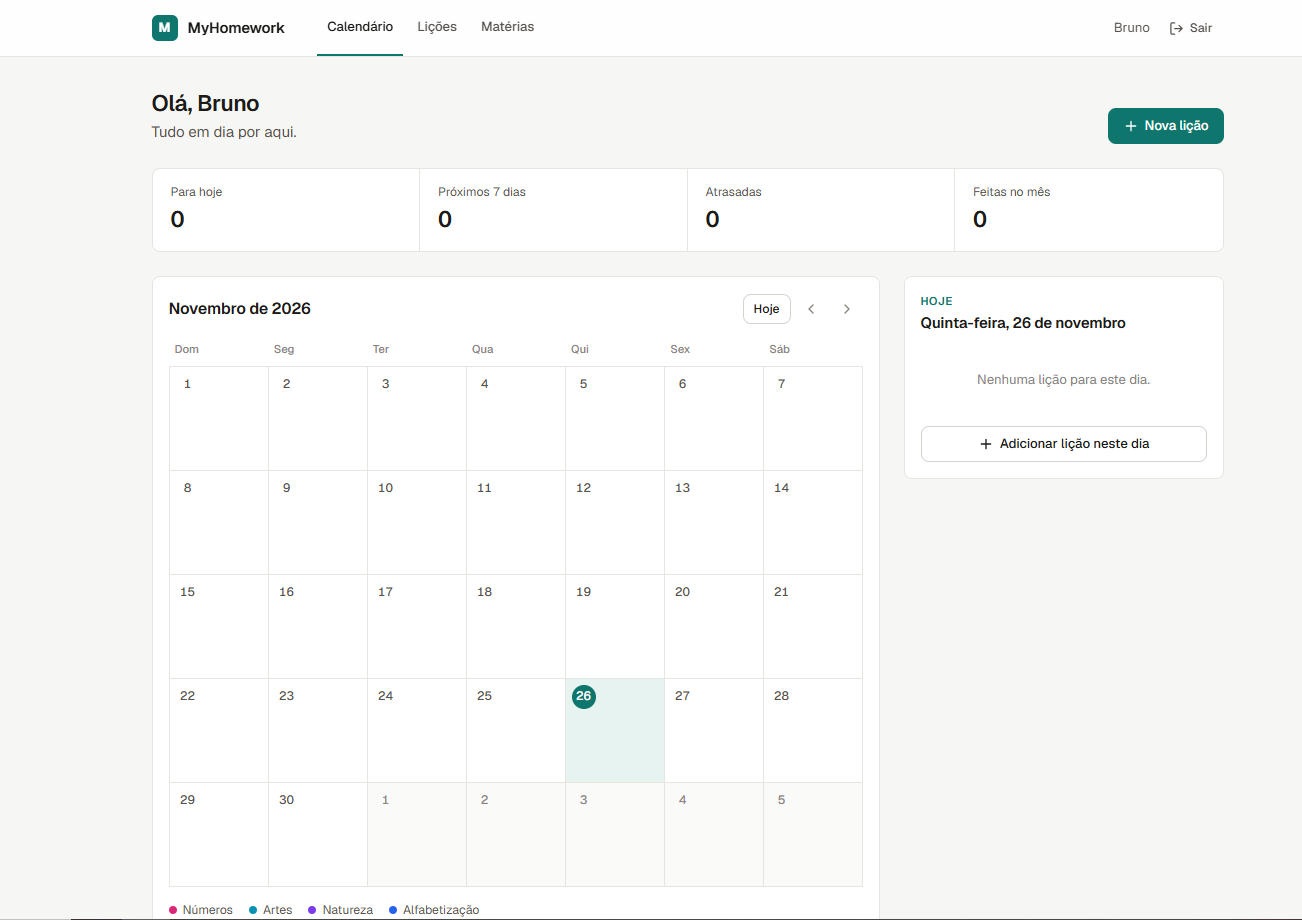
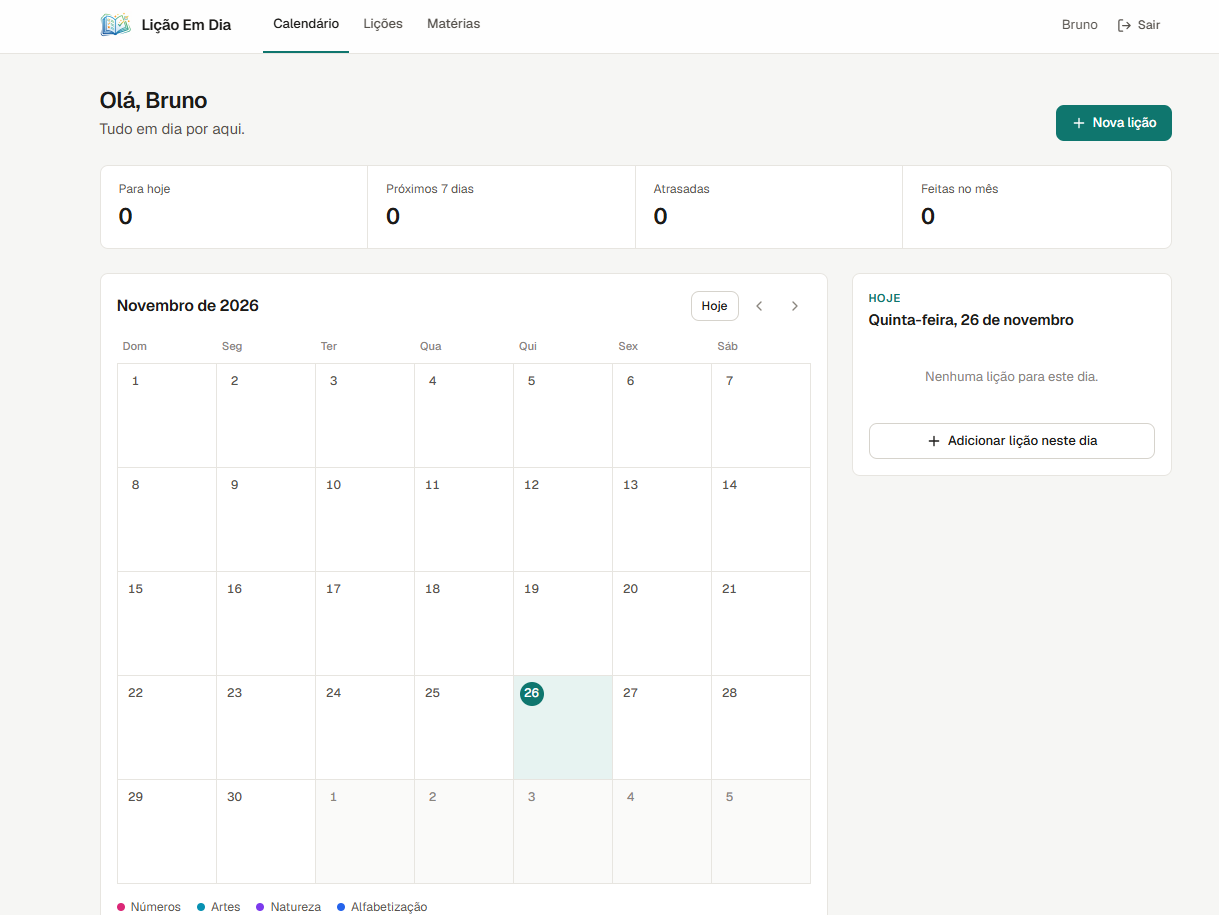
docs: update README screenshots and rename app to Lição Em Dia

diff --git a/README.md b/README.md
@@ -1,4 +1,4 @@
-# MyHomework
+# Lição Em Dia
 
 > [!IMPORTANT]
 > **Este app é para ser usado somente por responsáveis: papais e mamães.** Quem cria a conta, faz o login, cadastra as lições e acompanha o andamento é sempre o responsável.
@@ -7,7 +7,7 @@
 
 **Um projeto pessoal para acompanhar lições de casa.**
 
-Criei o MyHomework para atender uma necessidade minha: ter um jeito simples de saber quais lições existem, para quando são e o que já foi feito. É um **MVP** (produto mínimo viável) para a minha rotina em casa. Não é um produto e não é comercial.
+Criei o Lição Em Dia para atender uma necessidade minha: ter um jeito simples de saber quais lições existem, para quando são e o que já foi feito. É um **MVP** (produto mínimo viável) para a minha rotina em casa. Não é um produto e não é comercial.
 
 O projeto também é a forma que encontrei de estudar e praticar ASP.NET Core, Entity Framework, autenticação com JWT e React, construindo algo que eu mesmo uso.
 
@@ -37,6 +37,10 @@ O projeto também é a forma que encontrei de estudar e praticar ASP.NET Core, E
 ![Tela de login com a mensagem para os pais e o formulário de e-mail e senha](docs/tela-login.png)
 
 Quem não está logado só vê o login e o cadastro. Depois de criar a conta, a pessoa volta para o login com o aviso "Conta criada" e o e-mail já preenchido.
+
+### Nova lição
+
+![Formulário de nova lição com título, descrição, data de entrega e matéria](docs/tela-nova-licao.png)
 
 ### Outras telas
 
@@ -249,4 +253,3 @@ O `.env.local` guarda o endereço da API (`VITE_API_URL`). Abra `http://localhos
 - Usar DTOs também em lições e matérias, e validar a matéria no `PUT` de lições.
 - Lembretes de prazo e visão por semana no calendário.
 - Testes (xUnit e Vitest), GitHub Actions e Docker Compose.
-- Hospedar a aplicação para usar pelo celular fora de casa.

diff --git a/frontend/README.md b/frontend/README.md
@@ -1,4 +1,4 @@
-# MyHomework — Frontend
+# Lição Em Dia — Frontend
 
 Interface em **React 19 + TypeScript**, criada com **Vite**. Consome a API do backend, com login por token JWT. Não usa biblioteca de componentes nem de estado: só React, React Router, `fetch` nativo e CSS puro.
 

diff --git a/backend/README.md b/backend/README.md
@@ -1,4 +1,4 @@
-# MyHomework — Backend
+# Lição Em Dia — Backend
 
 API REST em **ASP.NET Core (.NET 10)** que guarda usuários, matérias e lições num banco **MySQL**. A autenticação usa **ASP.NET Core Identity** com **tokens JWT**.
 
